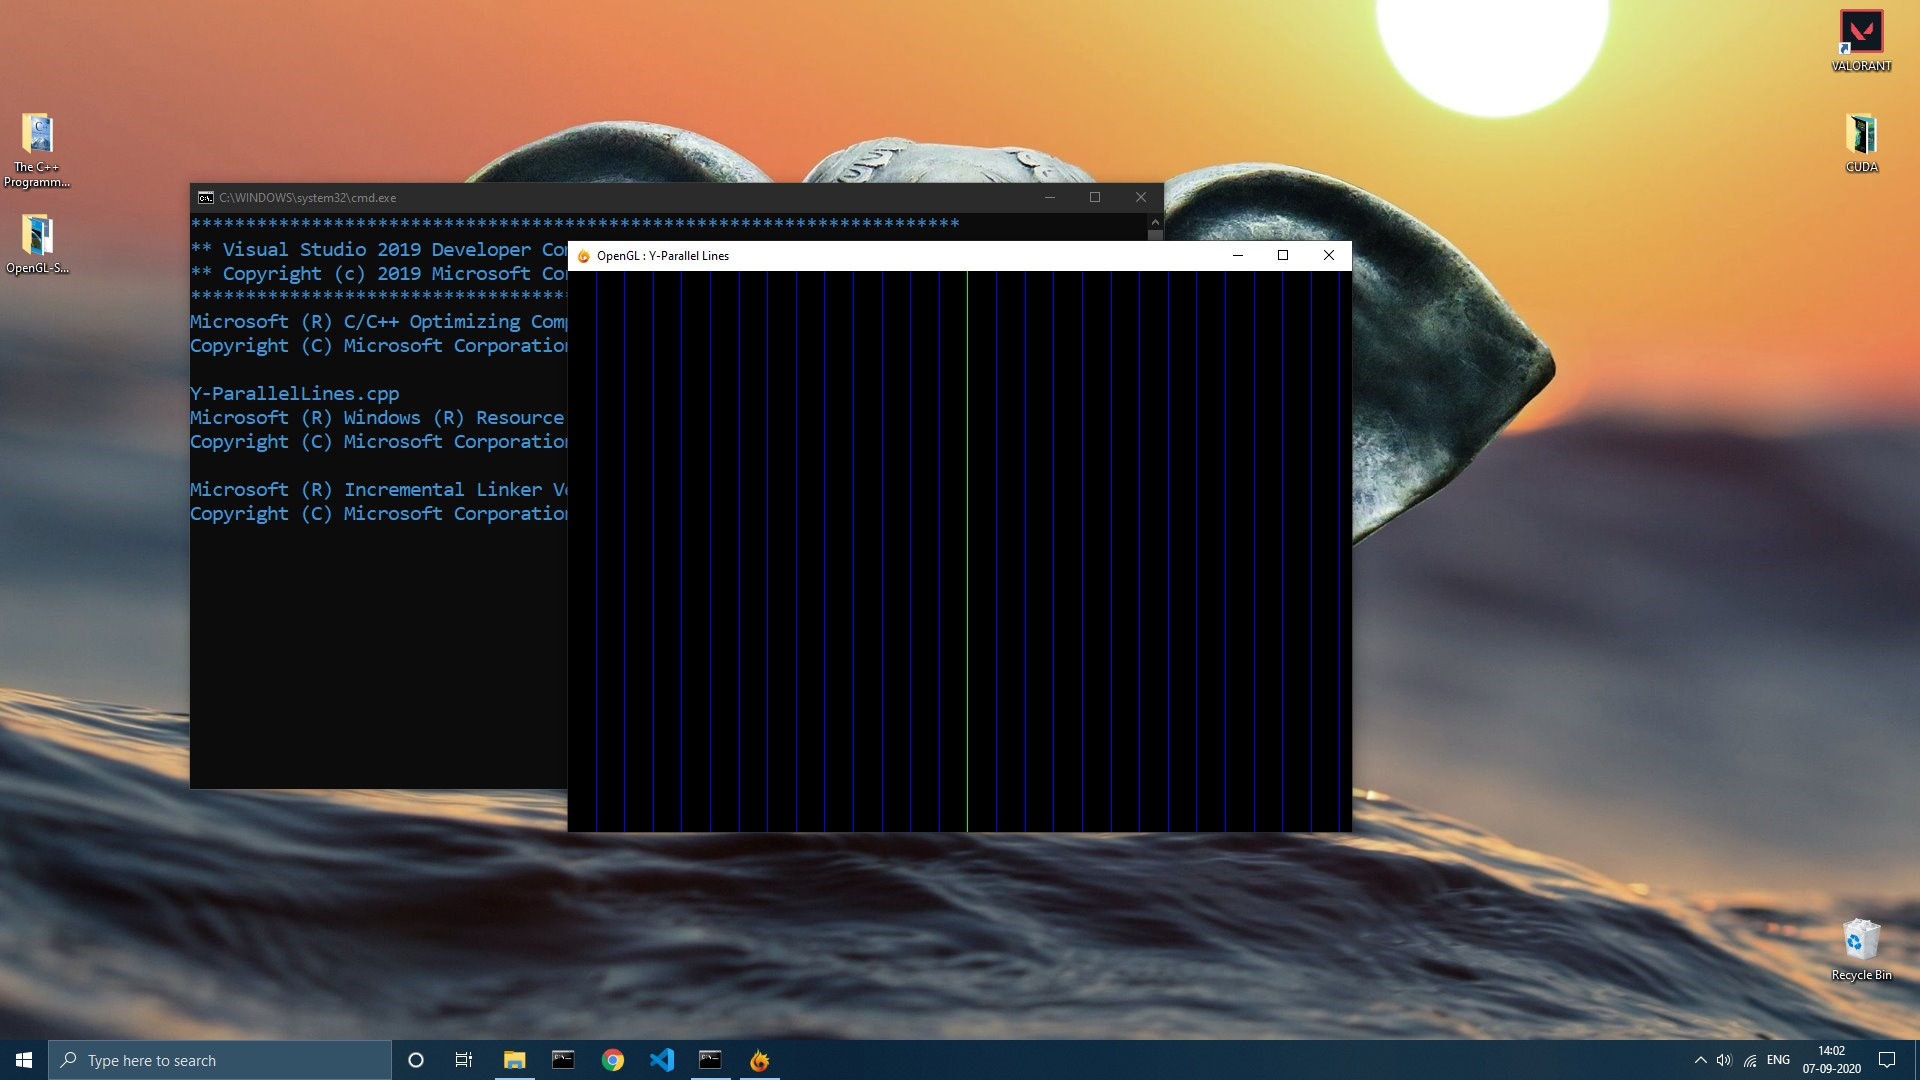
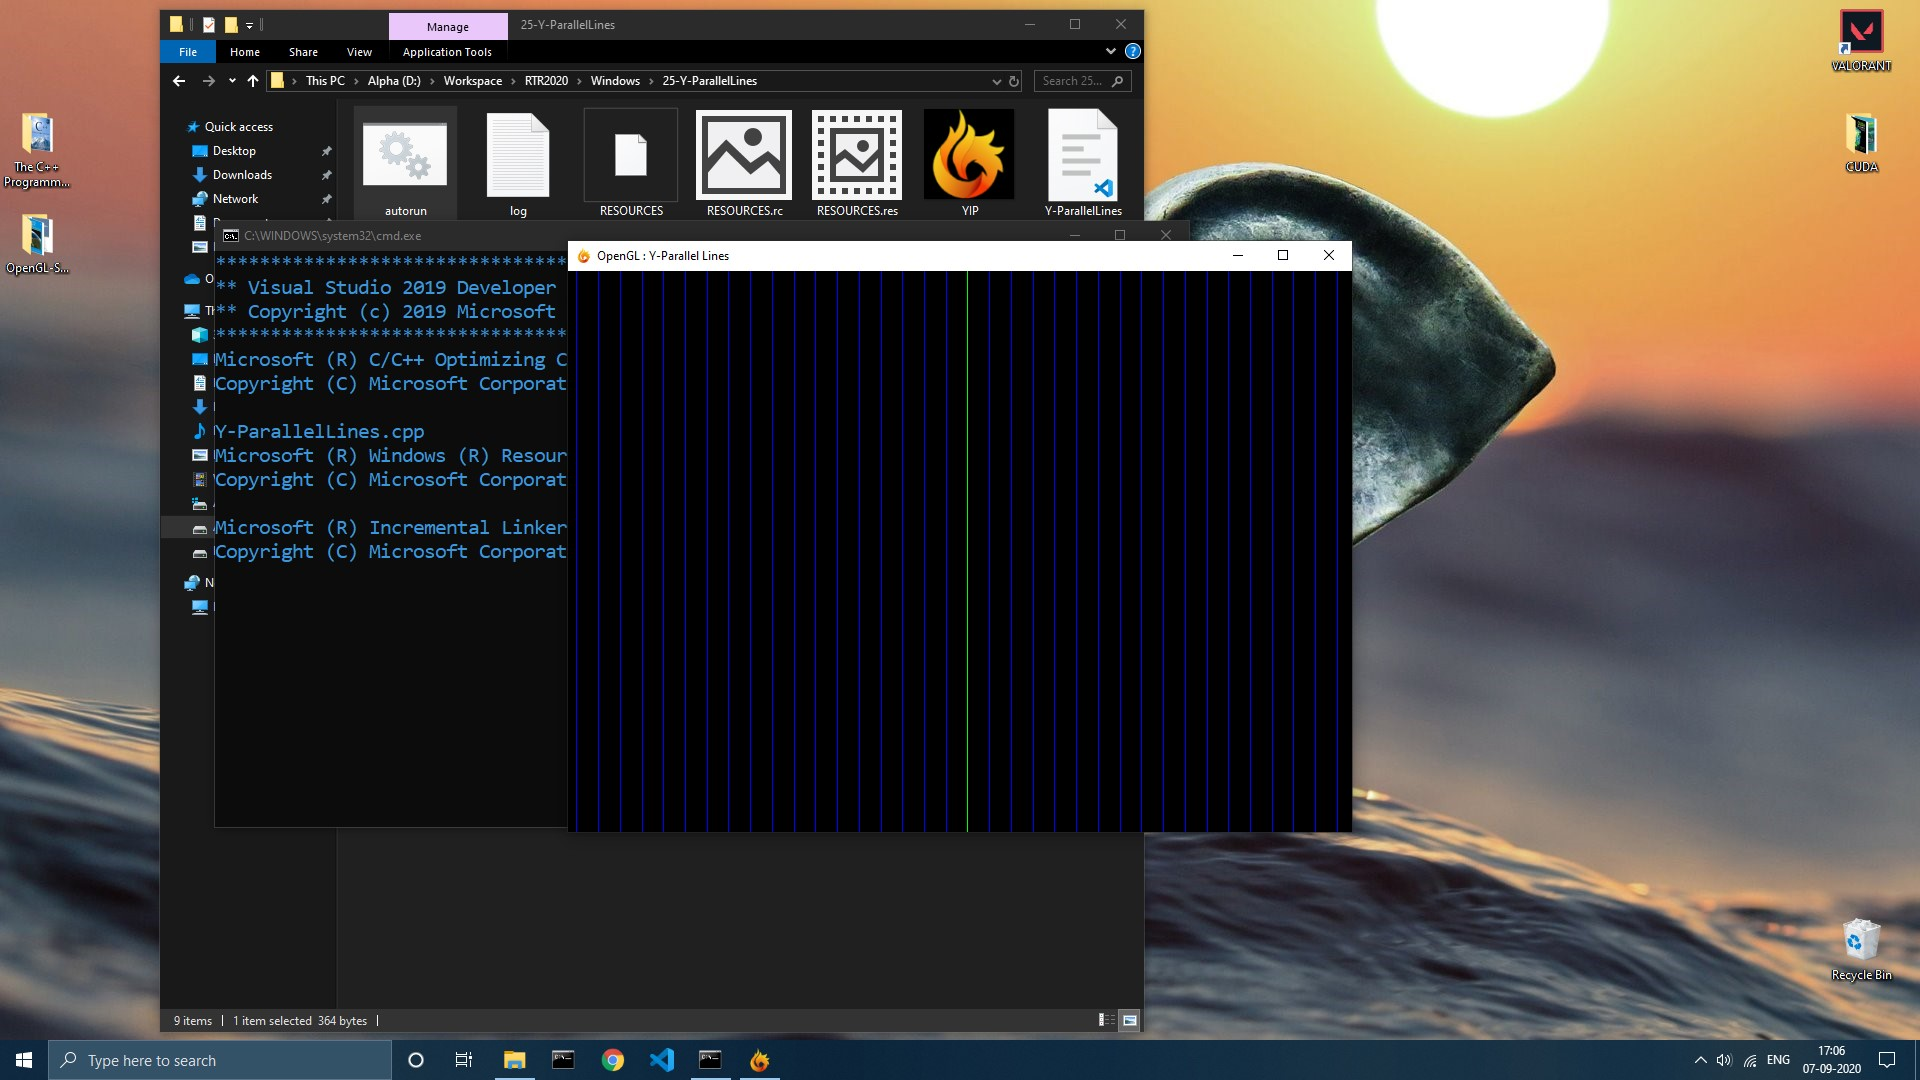
minor changes

Changed region(s): [[0.0625, 0.0, 0.6875, 0.9778]]

diff --git a/Windows/25-Y-ParallelLines/Y-ParallelLines.cpp b/Windows/25-Y-ParallelLines/Y-ParallelLines.cpp
@@ -326,7 +326,7 @@ void Display(void)
 {
     //variable declaration
     int yStep;
-    GLfloat Interval = 0.0395f;
+    GLfloat Interval = 0.06f;
 
     //code
     glClear(GL_COLOR_BUFFER_BIT);
@@ -334,7 +334,7 @@ void Display(void)
     glMatrixMode(GL_MODELVIEW);
     glLoadIdentity();
 
-    glTranslatef(0.0f,  0.0f, -1.0f);
+    glTranslatef(0.0f,  0.0f, -2.0f);
 
     glColor3f(0.0f, 0.0f, 1.0f);
     for(yStep = -20; yStep <= 20; yStep++)
